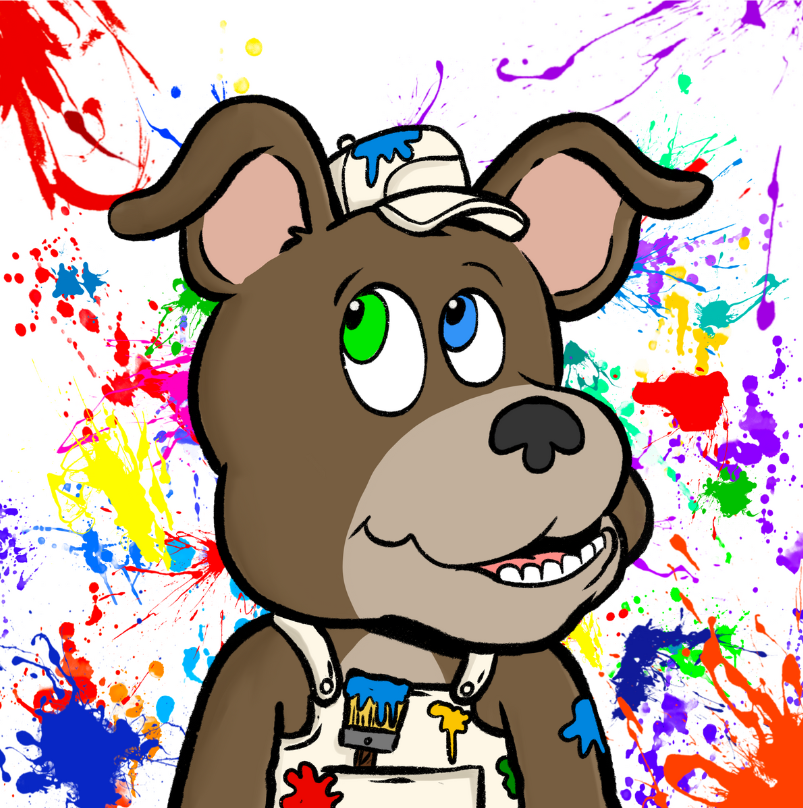
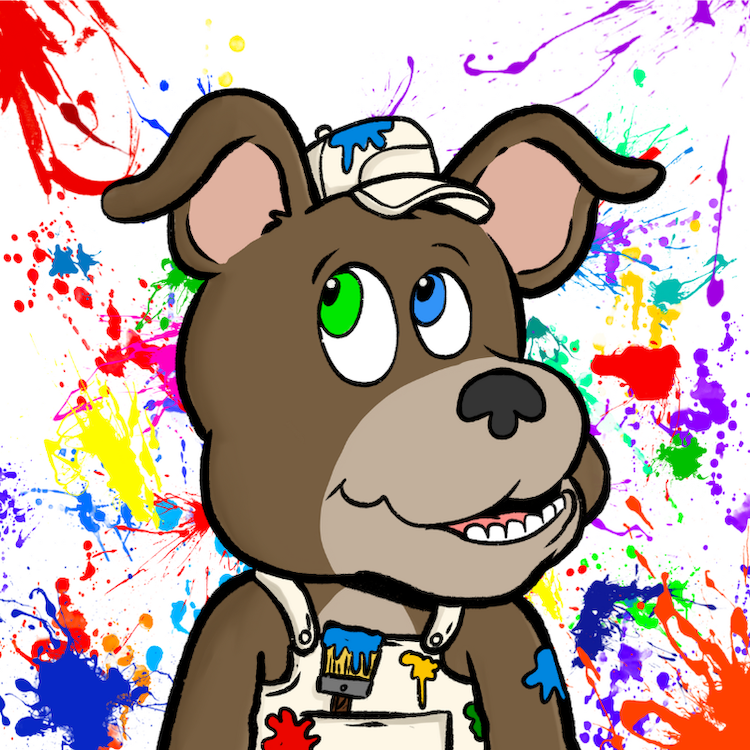
optimized Images for nextjs

diff --git a/src/app/components/NFTSection.js b/src/app/components/NFTSection.js
@@ -113,23 +113,22 @@ function NFTSection() {
             <div className="box">
                 <div className="flex justify-center">
                     <div className="absolute max-w-[500px] w-10/12 sm:w-1/2 md:w-2/5 lg:w-1/3 lg:right-16 xl:right-30 h-fit mt-2 lg:mt-5 border-2 border-black bg-[#eaffea] rounded-lg overflow-hidden z-40">
-                        <div className="relative w-full h-full flex flex-wrap" ref={boxesRef}>
-                        <Image className="object-cover z-0" src='/wiznft.png' alt="wiznft" width={750} height={750} sizes="(max-width: 640px) 100vw, (max-width: 768px) 50vw, 33vw" />
-                        {/* <div className="absolute w-full h-full mt-32 bg-black z-40 opacity-40"></div> */}
+                        <div className="relative w-full h-full flex flex-wrap max-sm:h-nfts-screen sm:h-smnfts-screen md:h-mdnfts-screen lg:h-lgnfts-screen" ref={boxesRef}>
+                        <Image className="object-cover z-0" src='/indianajonesnft.png' alt="indianajonesnft" sizes="(max-width: 640px) 83vw, (max-width: 768px) 50vw, (max-width: 1024px) 40vw, 33vw" layout="fill"/>
                             {layout.items.map((item) => (
                             <div
                                 id={`box-${item.id}`}
                                 key={item.id}
-                                className="box absolute"
+                                className="box absolute w-full h-full"
                             >
-                                <Image className="object-cover" src={item.image} alt={`NFT ${item.id}`} width={750} height={750} sizes="(max-width: 640px) 100vw, (max-width: 768px) 50vw, 33vw"/>
+                                <Image className="object-cover" src={item.image} alt={`NFT ${item.id}`} sizes="(max-width: 640px) 83vw, (max-width: 768px) 50vw, (max-width: 1024px) 40vw, 33vw" layout="fill"/>
                             </div>
                             ))}
                         </div>
                     </div>
                 </div>
             </div>
-            <Image className="relative object-cover z-0 invisible w-10/12 sm:w-1/2 md:w-2/5 lg:w-1/3" src='/wiznft.png' alt="wiznft" width={750} height={750} sizes="(max-width: 640px) 100vw, (max-width: 768px) 50vw, 33vw"/>
+            <Image className="relative object-cover z-0 invisible w-10/12 sm:w-1/2 md:w-2/5 lg:w-1/3" src='/indianajonesnft.png' alt="indianajonesnft" width={750} height={750} sizes="(max-width: 640px) 83vw, (max-width: 768px) 50vw, (max-width: 1024px) 40vw, 33vw"/>
             <div className="lg:hidden relative lg:absolute flex flex-col justify-center items-start bg-[#ffe350] border-y-2 border-black mt-6 font-baloo text-lg text-black text-center w-full h-fit">
                 <div className="w-full px-8 py-4 leading-6">
                     <p>

diff --git a/tailwind.config.js b/tailwind.config.js
@@ -40,6 +40,10 @@ module.exports = {
         '1/12': '8.333333%',
         'smbook-pages-screen': 'calc(95vw / 1.6)',
         'mdbook-pages-screen': 'calc(75vw / 1.6)',
+        'nfts-screen': 'calc(100vw * 0.833)',
+        'smnfts-screen': 'calc(100vw * 0.5)',
+        'mdnfts-screen': 'calc(100vw * 0.4)',
+        'lgnfts-screen': 'calc(100vw * 0.333)',
         'banner-1-col': 'calc(90vw / 3)',
         'banner-3-col': 'calc(90vw / 9)',
         'wallpaper-smscreen': 'calc(90vw / 0.5626)',
